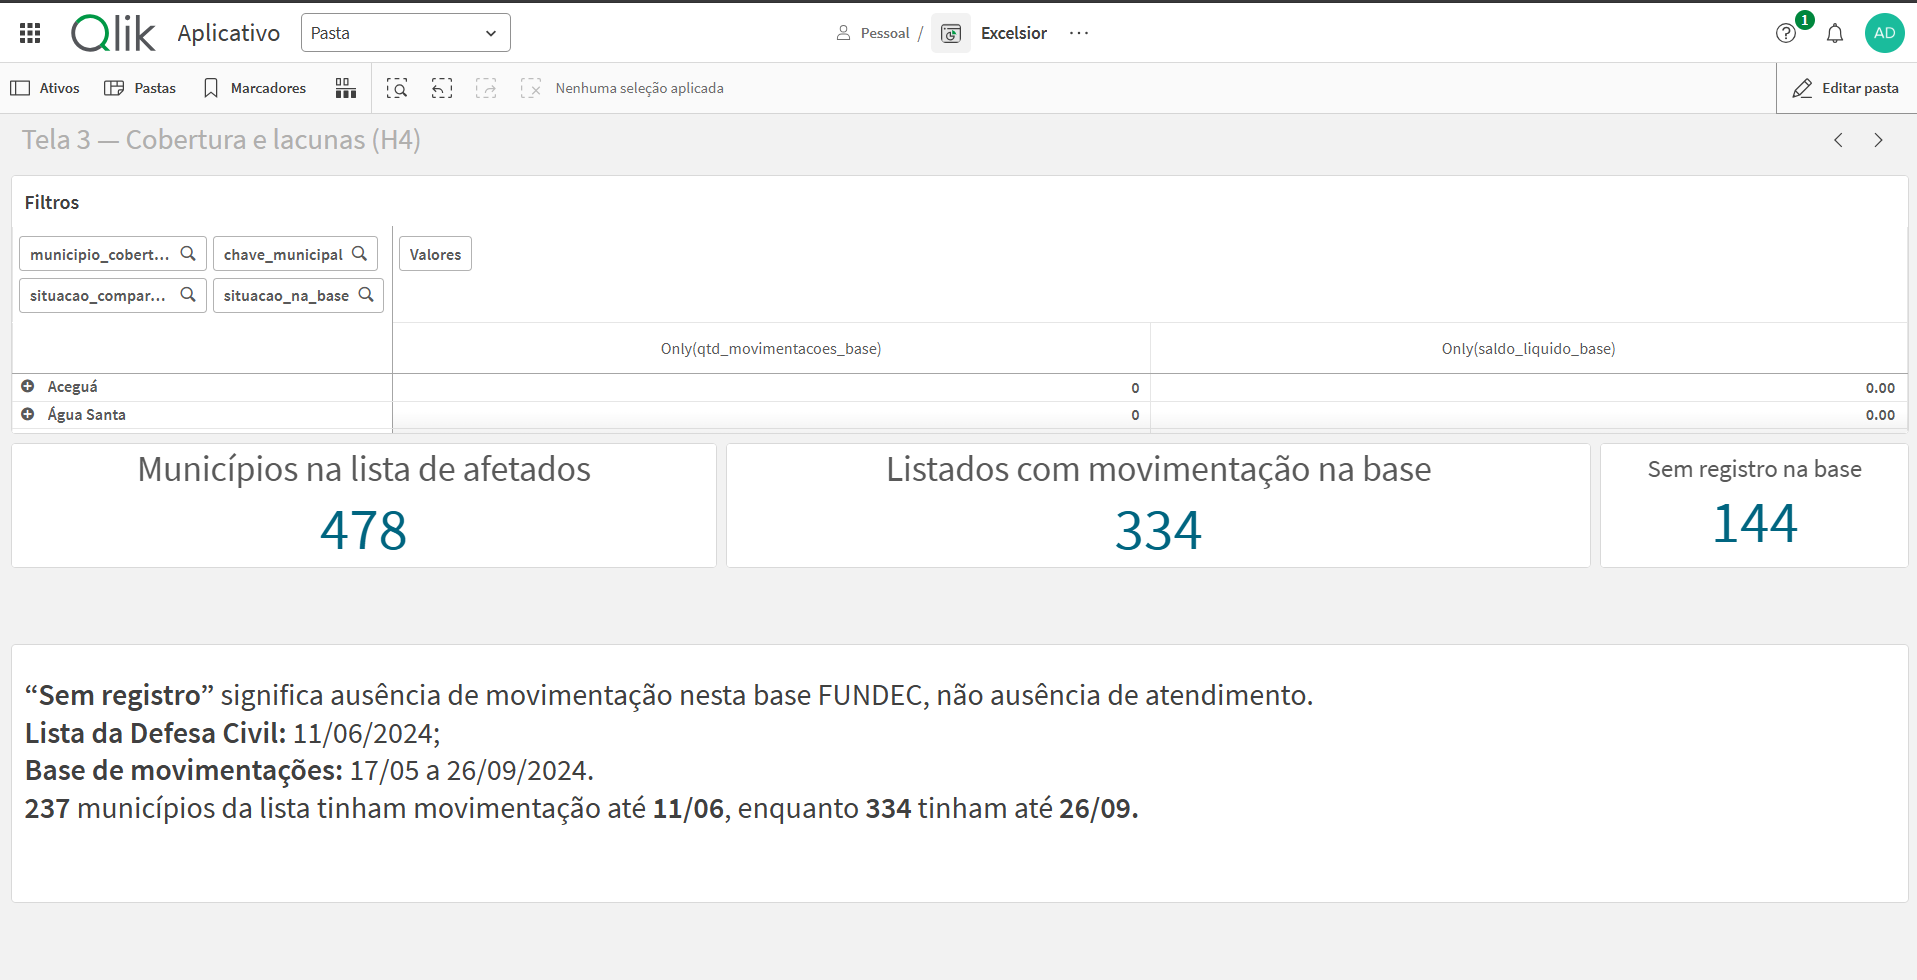
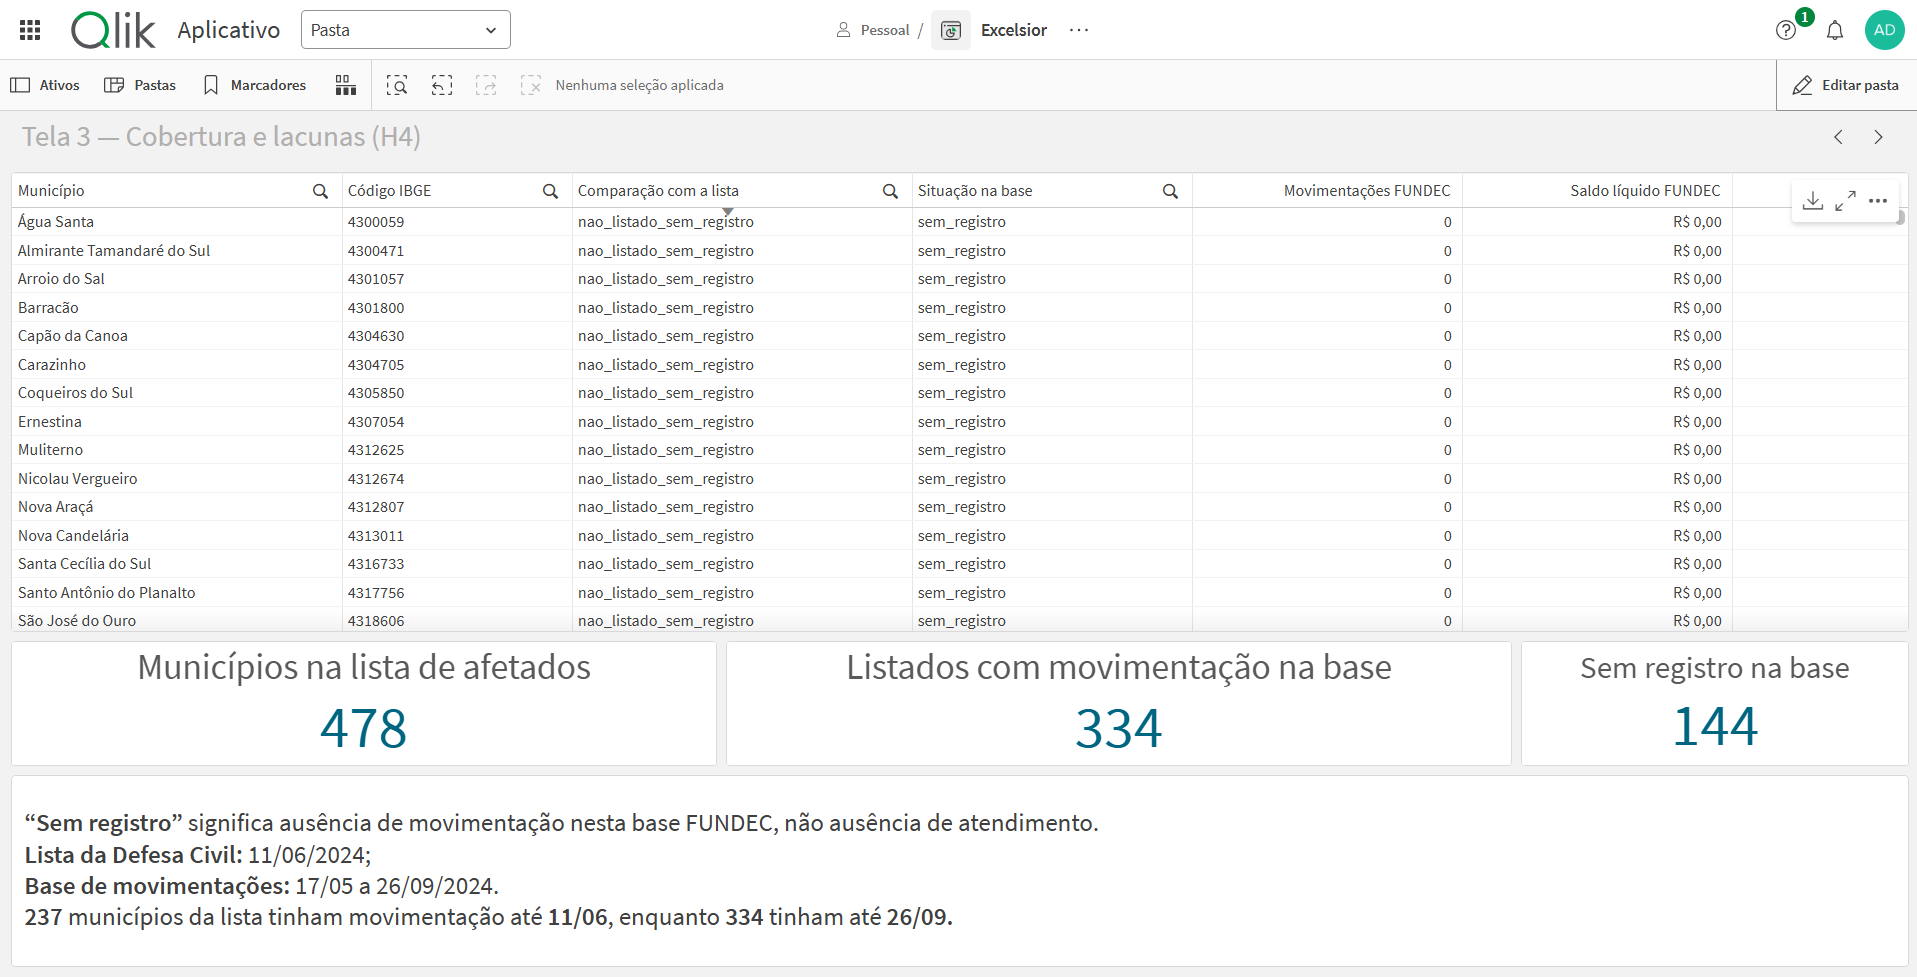
docs: registra evidencias e snapshot da task 18

diff --git a/docs/evidencias/task-16/README.md b/docs/evidencias/task-16/README.md
@@ -21,25 +21,26 @@ listados no extrato também não têm registros nessa base.
 Em 17/09/2026, o usuário informou que a Tela 3 mostrou os KPIs **478 / 334 /
 144**, acrescentou a tabela e os filtros, conferiu os casos indicados e
 exportou o app com dados no
-[`snapshot 09`](../../../qlik/versoes-do-app/09-task-16/README.md). Também
-confirmou a correção do KPI de 334 municípios na Visão Geral e apresentou o
-mapa de áreas da Task 14 novamente preenchido.
+[`snapshot 09`](../../../qlik/versoes-do-app/09-task-16/README.md). Em
+18/09/2026, substituiu a tabela dinâmica por uma tabela simples e exportou o
+[`snapshot 10`](../../../qlik/versoes-do-app/10-task-18/README.md) junto com a
+Tela 5.
 
 As capturas estão arquivadas nesta pasta:
 
 | Captura | O que permite conferir |
 |---|---|
-| [Tela 3 sem seleção](./01-tela3-geral.png) | KPIs 478 / 334 / 144, filtros, tabela e nota com os dois períodos. |
-| [Afetados sem registro](./02-afetados-sem-registro.png) | Seleção `afetado_sem_registro`, KPIs 144 / 0 / 144 e exemplos com zero movimentações. |
-| [Modelo de dados](./03-validacao-modelo.png) | Uma tabela `cobertura_municipal` ligada por `chave_municipal`, sem `$Syn` visível. |
+| [Tela 3 sem seleção](./01-tela3-geral.png) | KPIs 478 / 334 / 144, tabela simples com código IBGE e classificações visíveis, além da nota com os dois períodos. As primeiras linhas estão ordenadas pela classificação e mostram municípios fora da lista. |
+| [Afetados sem registro](./02-afetados-sem-registro.png) | Seleção `afetado_sem_registro`, KPIs 144 / 0 / 144 e linhas com zero movimentações e saldo R$ 0,00. |
+| [Modelo de dados](./03-validacao-modelo.png) | Captura anterior da única tabela `cobertura_municipal` ligada por `chave_municipal`, sem `$Syn` visível. |
 
-Nas duas capturas da Tela 3, o objeto é uma tabela dinâmica com dimensões
-recolhidas. Código IBGE e classificação não aparecem diretamente nas linhas;
-para auditar os casos no app, é preciso expandi-las ou exibir esses campos em
-colunas de uma tabela simples. Os CSVs vinculados acima permitem a conferência
-por código.
+Nas capturas atuais da Tela 3, município, código IBGE, comparação com a lista,
+situação na base, quantidade de movimentações e saldo aparecem diretamente em
+colunas. A primeira captura mostra também municípios **fora** da lista de
+afetados; o KPI de 144 refere-se apenas aos **listados** sem registro, isolados
+na segunda captura. Os CSVs vinculados acima permitem a conferência por código.
 
-O arquivo QVF foi verificado por tamanho e SHA-256, mas ainda não foi
+O QVF do snapshot 10 foi verificado por tamanho e SHA-256, mas ainda não foi
 reimportado para testar a restauração. A [análise da Task 16](../../task-16-cobertura-lacunas.md)
 explica por que ausência de registro não equivale a ausência de atendimento ou
 de elegibilidade.

diff --git a/qlik/versoes-do-app/10-task-18/README.md b/qlik/versoes-do-app/10-task-18/README.md
@@ -1,0 +1,40 @@
+# Snapshot 10 — Task 18
+
+Aplicativo Qlik Cloud exportado após a criação da **Tela 5 — Vulnerabilidade e
+repasses (H3)** e a revisão da tabela da **Tela 3 — Cobertura e lacunas (H4)**.
+É o sucessor do [snapshot 09](../09-task-16/README.md).
+
+## Arquivo e evidências
+
+- Arquivo: [`app.qvf`](./app.qvf).
+- Exportação informada pelo usuário: **18/09/2026**, Qlik Cloud, **com dados**.
+- Tamanho verificado: **425.984 bytes**.
[1 lines of base64/hex data omitted]
+- Armazenamento: Git LFS, pela regra `*.qvf` em `.gitattributes`.
+- Capturas: [Tela 5](../../../docs/evidencias/task-18/README.md) e
+  [Tela 3 atualizada](../../../docs/evidencias/task-16/README.md).
+
+As capturas da Tela 3 mostram a tabela simples com código IBGE e classificações
+visíveis, além dos KPIs **478 / 334 / 144** sem seleção e **144 / 0 / 144** com
+`afetado_sem_registro` selecionado. A captura da Tela 5 mostra gráfico,
+tabela e nota de método. O script de análise da Task 18 verifica a conciliação
+dos saldos e o recorte de **333 municípios com IDH-M** entre os **334 com
+repasses**.
+
+O tamanho e o hash identificam o QVF recebido; **a reimportação e a abertura
+das telas ainda não foram confirmadas**. Essa validação deve ser registrada
+antes de tratar o snapshot como restaurado.
+
+## Restauração
+
+Faça upload de `app.qvf` no Qlik Cloud como um novo aplicativo e abra, com as
+seleções limpas, as Telas 3 e 5. Confira também a Visão Geral (334 municípios
+com repasse), o mapa geográfico e a Tela 4, que já tiveram problemas de campos
+ou visualizações após alterações no modelo. Para executar outra recarga,
+disponibilize as fontes da conexão `DataFiles` descritas no
+[snapshot 09](../09-task-16/README.md) e confira o script de carga.
+
+O QVF inclui os dados carregados no momento da exportação; após upload, as
+conexões com as fontes podem precisar ser configuradas novamente para uma
+recarga. Os limites da comparação de IDH-M e repasses estão em
+[`docs/task-18-vulnerabilidade-repasses.md`](../../../docs/task-18-vulnerabilidade-repasses.md).

diff --git a/docs/task-18-vulnerabilidade-repasses.md b/docs/task-18-vulnerabilidade-repasses.md
@@ -107,9 +107,9 @@ e tabela municipal. A tabela exibiu **R$ 288.699.999,97** como saldo líquido
 total, igual ao CSV. O usuário confirmou os dois casos de controle:
 **Coqueiro Baixo (`4305835`)** com IDH-M 0,692, população 1.311, saldo de
 R$ 1.334.883,72 e R$ 1.018,22 por habitante; e **Pinto Bandeira (`4314548`)**
-presente na tabela com IDH-M ausente. A captura ainda não foi arquivada no
-repositório e a apresentação final da tabela e da nota metodológica segue em
-andamento.
+presente na tabela com IDH-M ausente. A
+[captura final](./evidencias/task-18/README.md) foi arquivada com medidas
+formatadas, fontes e nota metodológica visíveis.
 
 ## Ajustes herdados da Task 16 e evidência final
 
@@ -120,10 +120,11 @@ quantidade de movimentações e saldo líquido. Registre uma captura sem filtros
 e outra com `afetado_sem_registro` selecionado. Preserve a nota de que
 **ausência de registro FUNDEC não equivale a ausência de atendimento**.
 
-Depois de validar as duas telas, exporte o aplicativo **com dados** no
-snapshot sequencial **10**, registre tamanho e SHA-256 e reimporte o QVF para
-conferir modelo, medidas e visualizações restaurados. A reimportação do
-[snapshot 09](../qlik/versoes-do-app/09-task-16/README.md) ainda não foi
-confirmada; o teste do snapshot 10 deve cobrir também as funcionalidades da
-Tela 3. Registre as capturas, resultados de conferência e limitações antes de
-marcar esta task como concluída.
+As capturas atualizadas da [Tela 3](./evidencias/task-16/README.md) mostram a
+tabela simples com os campos de auditoria visíveis, os KPIs sem seleção e a
+seleção `afetado_sem_registro` com **144 / 0 / 144**. O aplicativo foi exportado
+com dados, segundo o usuário, no [snapshot 10](../qlik/versoes-do-app/10-task-18/README.md),
+com tamanho e SHA-256 registrados. **Ainda falta reimportar o QVF** e conferir
+as Telas 3 e 5, a Visão Geral e as visualizações afetadas anteriormente pela
+normalização do modelo. Registre essa conferência antes de marcar a task como
+concluída.

diff --git a/docs/evidencias/task-18/README.md b/docs/evidencias/task-18/README.md
@@ -1,0 +1,18 @@
+# Evidências da Task 18 — vulnerabilidade e repasses
+
+| Captura | Estado e conferência visível |
+|---|---|
+| [Tela 5 sem filtros](./01-tela5-geral.png) | Gráfico de dispersão entre IDH-M 2010 e valor líquido por habitante, tabela municipal com código IBGE e valores formatados, além de nota sobre fontes, anos, cobertura e limites da interpretação. |
+
+O ponto de **Coqueiro Baixo** está destacado no gráfico. A tabela permite
+consultar cada município, inclusive **Pinto Bandeira**, cujo IDH-M é ausente.
+Esses dois casos foram conferidos manualmente pelo usuário em 18/09/2026; a
+captura geral não mostra suas linhas pesquisadas. Os números da análise
+completa e o teste de sensibilidade por população podem ser reproduzidos com
+[`etl/analise_idhm_repasses.py`](../../../etl/analise_idhm_repasses.py) e estão
+explicados em [`docs/task-18-vulnerabilidade-repasses.md`](../../task-18-vulnerabilidade-repasses.md).
+
+A nota do app apresenta as correlações calculadas **sem filtros**. Elas não se
+recalculam quando o usuário seleciona municípios ou outros campos no Qlik. O
+registro do QVF correspondente está no
+[`snapshot 10`](../../../qlik/versoes-do-app/10-task-18/README.md).

diff --git a/docs/task-16-cobertura-lacunas.md b/docs/task-16-cobertura-lacunas.md
@@ -136,7 +136,9 @@ O aplicativo exportado com dados foi colocado em
 O [README do snapshot](../qlik/versoes-do-app/09-task-16/README.md) registra
 tamanho, SHA-256 e dependências de restauração. Os controles e limites da
 evidência estão no [registro da Task 16](./evidencias/task-16/README.md).
-As capturas da Tela 3 e do modelo estão arquivadas nesse registro. Elas mostram
-uma tabela dinâmica com código e situação recolhidos; a conferência visual
-direta desses campos ainda pede expansão das linhas ou uma tabela simples.
-A reimportação desse QVF ainda não foi confirmada.
+As capturas atuais da Tela 3 e do modelo estão arquivadas nesse registro.
+Em 18/09/2026, a tabela dinâmica foi substituída por uma tabela simples que
+exibe código IBGE, classificações, movimentações e saldo em colunas. A captura
+filtrada confirma **144 / 0 / 144** para `afetado_sem_registro`. A correção foi
+exportada no [snapshot 10](../qlik/versoes-do-app/10-task-18/README.md), junto
+com a Tela 5. A reimportação do QVF 10 ainda não foi confirmada.

diff --git a/qlik/versoes-do-app/09-task-16/README.md b/qlik/versoes-do-app/09-task-16/README.md
@@ -22,6 +22,9 @@ O usuário relatou a validação desses elementos no Qlik em 17/09/2026. Os
 prints da Tela 3 e do modelo de dados estão arquivados com os controles
 reproduzíveis em
 [`docs/evidencias/task-16/README.md`](../../../docs/evidencias/task-16/README.md).
+As duas capturas da Tela 3 foram substituídas em 18/09/2026 pela versão com
+tabela simples do [snapshot 10](../10-task-18/README.md). O QVF deste snapshot
+09 permanece como exportado, com a tabela dinâmica anterior.
 
 ## Arquivo
 

diff --git a/qlik/versoes-do-app/README.md b/qlik/versoes-do-app/README.md
@@ -17,6 +17,7 @@ task correspondente:
 07-task-14/
 08-task-17/
 09-task-16/
+10-task-18/
 ```
 
 A sequência representa a ordem de exportação e versionamento do aplicativo.
